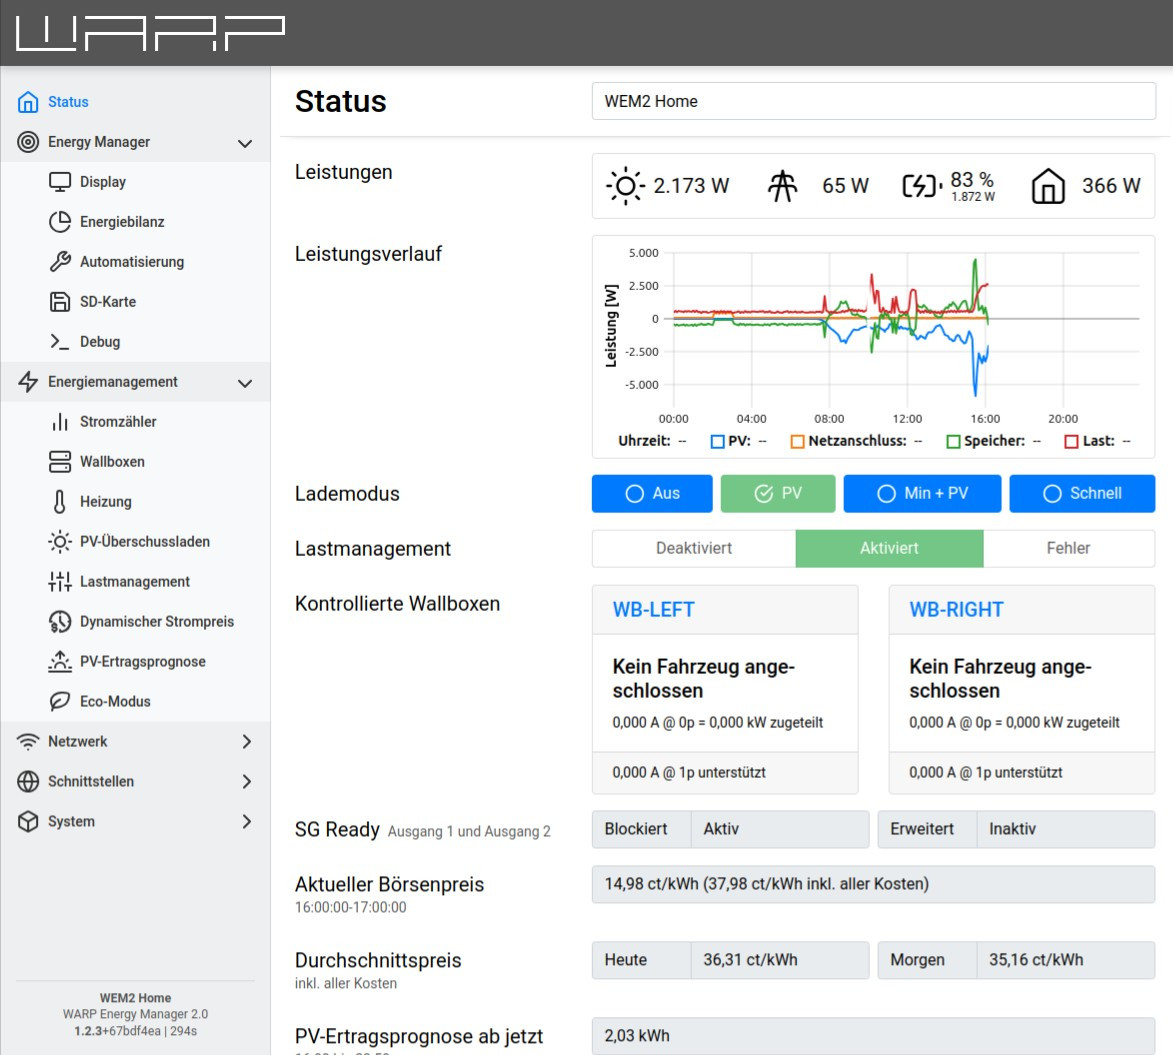
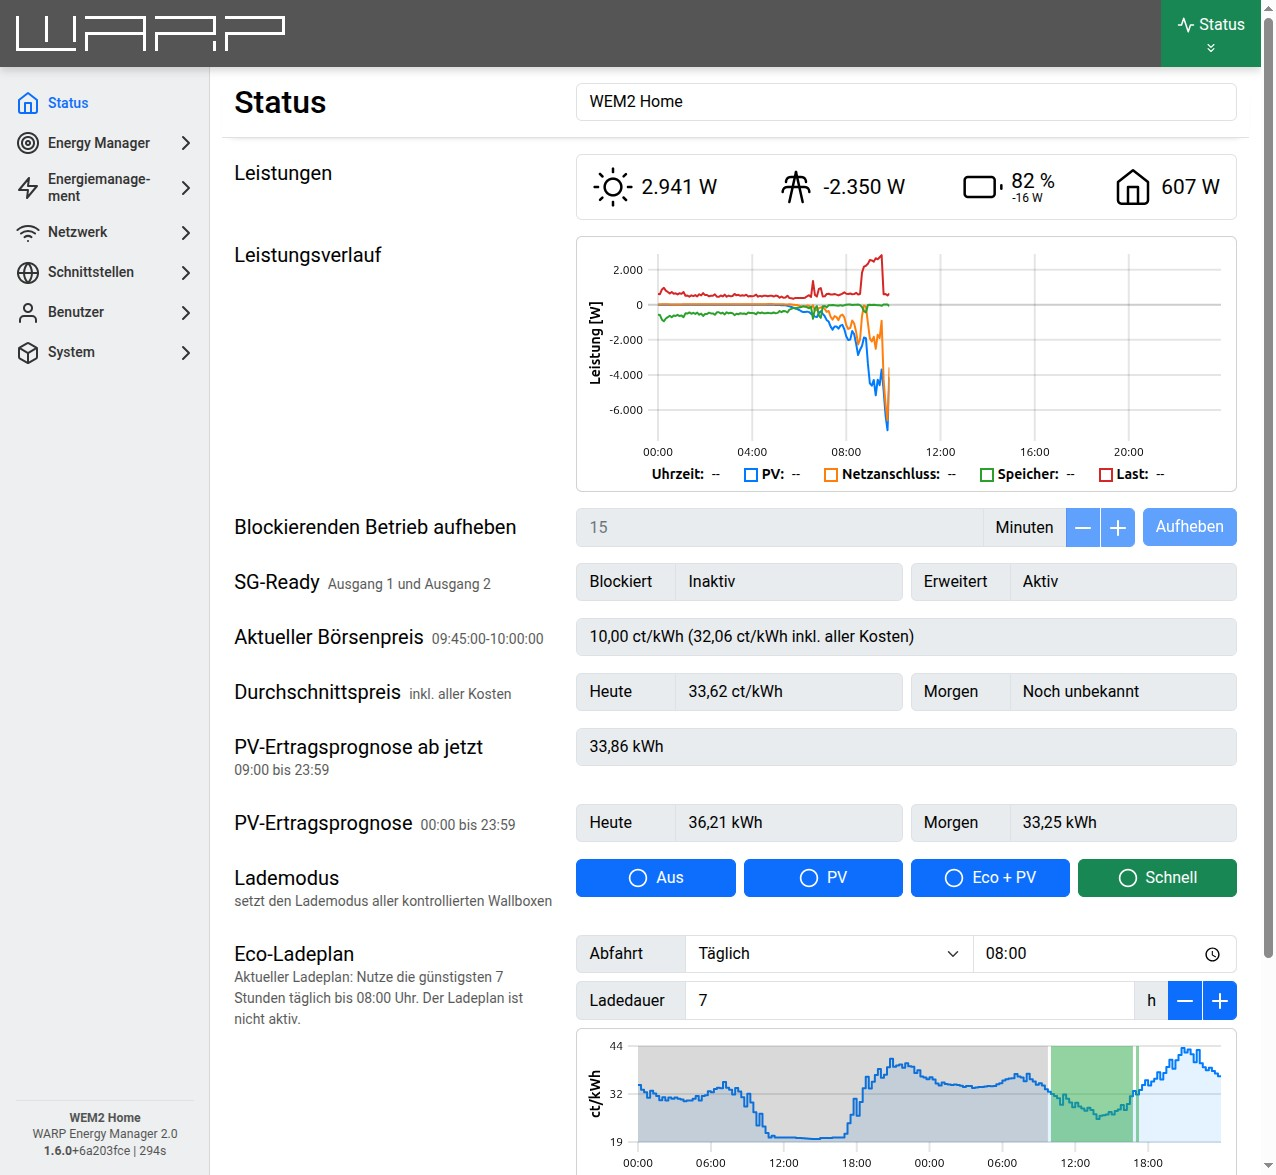
temporary fix of status page

diff --git a/docs.warp-charger.com/docs/webinterface/status.md b/docs.warp-charger.com/docs/webinterface/status.md
@@ -50,9 +50,17 @@ Die Statusseite stellt, sofern aktiviert, auch Informationen zum Lastmanagement 
 Zusätzlich werden Informationen zu den Schnittstellen gegeben. Darunter IP-Adressen, die Stärke der WLAN-Verbindung etc.
 
 ### Weitere Beispiele
-Beispiele mit Eco-Lademodus und aktiviertem Ladeplan in einem Lastmanagement mit mehreren Wallboxen.
-![image](/img/webinterface/status/warp3-status2.jpeg)
+Beispiel mit Eco-Lademodus und aktiviertem Ladeplan in einem Lastmanagement mit mehreren Wallboxen.
 ![image](/img/webinterface/status/warp3-status3.jpeg)
+Über den Abschnitt **Lademodus** und die entsprechenden Buttons kann der
+Lademodus dauerhaft für alle kontrollierten Wallboxen gesetzt werden.
+Welche Lademodi angeboten werden, hängt davon ab ob der WARP Charger für ein
+PV-Überschussladen konfiguriert wurde und ob der Eco-Modus aktiviert wurde.
+
+Unter **Kontrollierte Wallboxen** werden die vom WARP Charger gesteuerten Wallboxen
+und deren Zustand dargestellt. Der Lademodus jeder Wallbox kann auch individuell an der
+Wallbox (Fronttaster) oder über die Drop-Down-Box eingestellt werden. Diese Einstellung
+gilt dann aber nur temporär für den aktuellen Ladevorgang.
 
 ## Status (WARP Energy Manager)
 
@@ -70,14 +78,14 @@ aktuellen **Leistungen** von Stromzählern dargestellt. Wurden die Stromzähler
 konfiguriert, so kann hier ein Überblick über den Leistungsverlauf bezogen auf
 die PV-Erzeugung, dem Netzbezug oder Netzeinspeisung, dem Hausakku und dem Verbrauch.
 
-Dieser WARP Energy Manager wurde als Lastmanager für Wallboxen konfiguriert.
-Daher kann der **Lademodus** für die Wallboxen eingestellt werden.
-Welche Lademodi angeboten werden, hängt davon ab ob der Energy Manager für ein
-PV-Überschussladen konfiguriert wurde und ob der Eco-Modus aktiviert wurde.
-
-Dargestellt werden die vom Energy Manager **kontrollierten Wallboxen** und deren Zustand.
-
 Der Zustand der **SG-Ready** Schnittstelle (Heizung) und Informationen zum aktuellen
 Strompreis (**Aktueller Börsenpreis** und **Durchschnittspreis**) werden ebenfalls dargestellt.
 
-Ansatzweise sind die Daten zur **PV-Ertragsprognose** in diesem Screenshot sichtbar.
+Dieser WARP Energy Manager wurde als Lastmanager für Wallboxen konfiguriert.
+Über den Abschnitt **Lademodus** und die entsprechenden Buttons kann der
+Lademodus dauerhaft für alle kontrollierten Wallboxen gesetzt werden.
+Welche Lademodi angeboten werden, hängt davon ab ob der Energy Manager für ein
+PV-Überschussladen konfiguriert wurde und ob der Eco-Modus aktiviert wurde.
+
+Zusätzlich ist ein **Eco-Ladeplan** aktiv, bei dem eine tägliche Abfahrtszeit von 08:00 Uhr
+mit einer Ladedauer von 7 Stunden konfiguriert wurde.